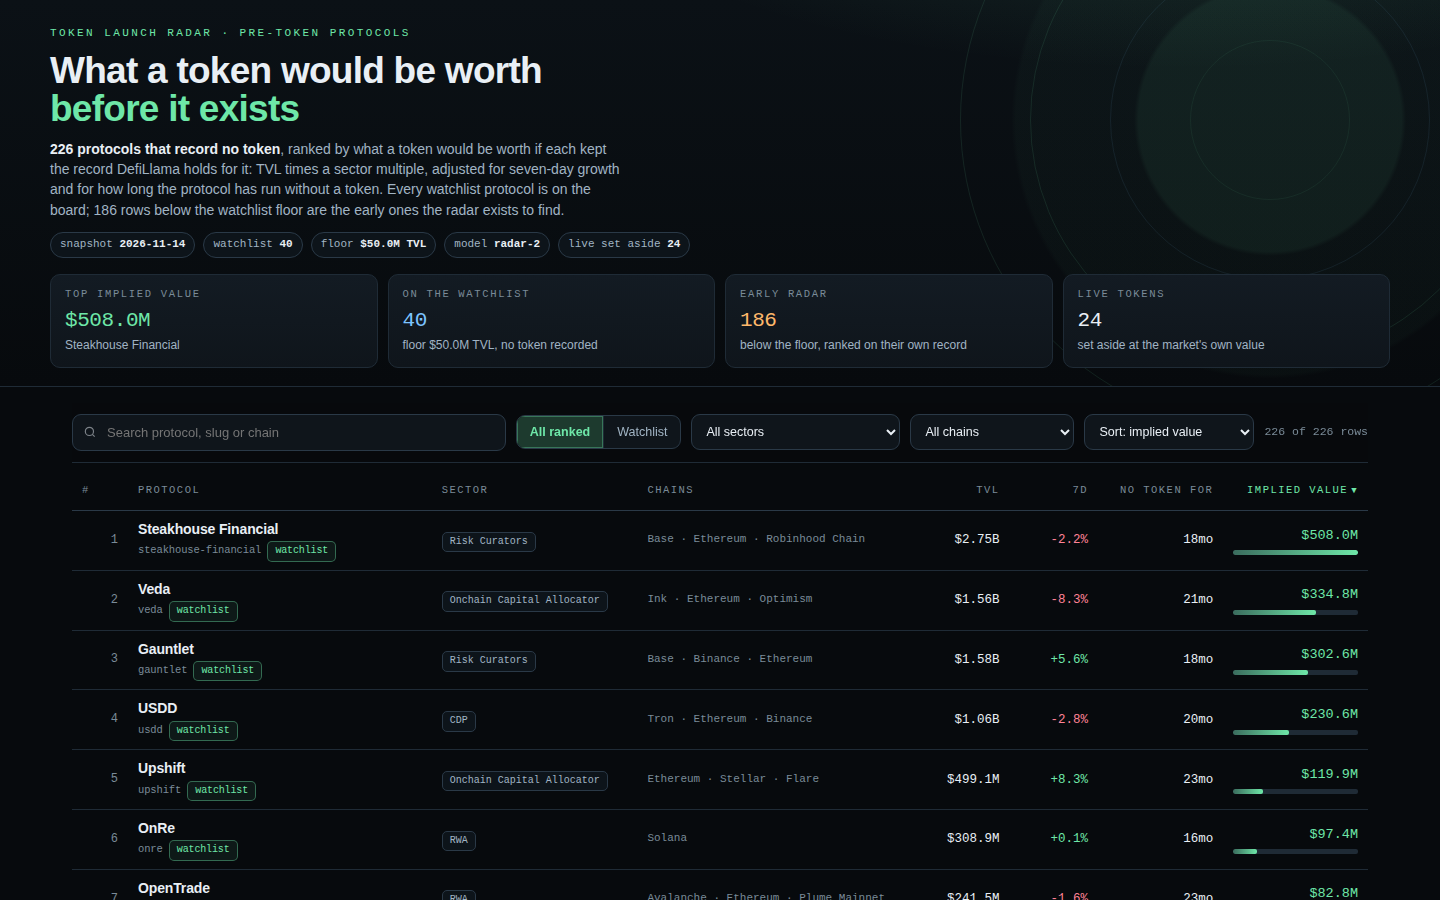
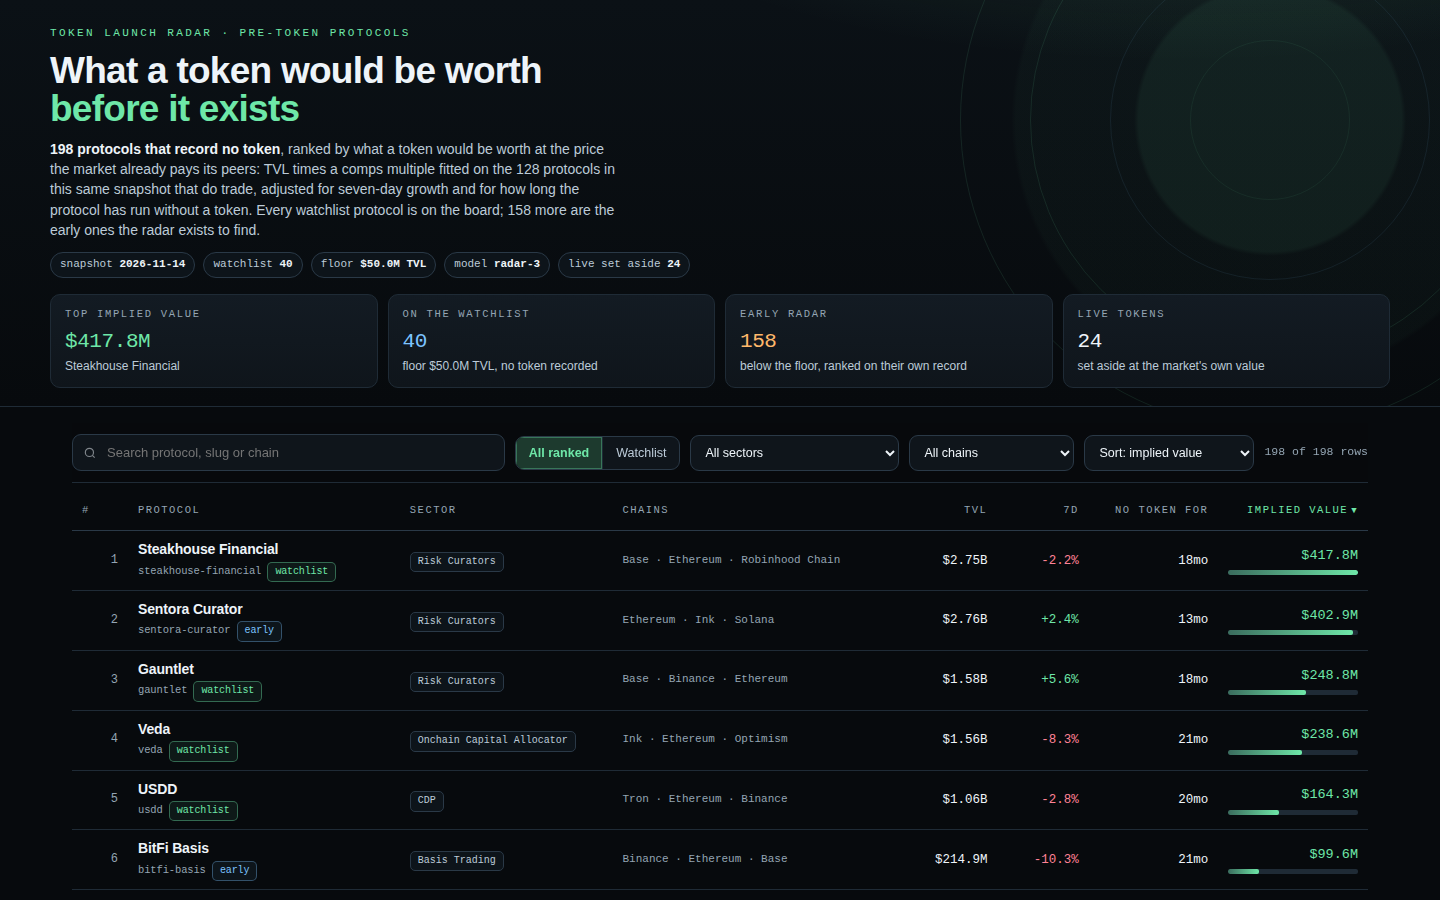
radar-3: comps multiple fitted on the snapshot own tokenized protocols
The sector multiples were hand-picked. They are gone: every protocol that already
trades gives a market-cap-per-TVL reading, the category median prices a pre-token
peer, and the global median stands in when a category has fewer than five readings.

- fitComps/compsMultiple in lib/model.ts, with compsIssue as the fit self-check
- board covers every rankable pre-token protocol (198 rows, watchlist 40/40)
- isRankable now applies the house watchlist rule (wrapped/staked/bridged/CEX)
- dashboard states the fitted multiple, its n and which table it came from

diff --git a/lib/model.ts b/lib/model.ts
@@ -42,8 +42,6 @@ export interface Snapshot {
 
 /** The model's constants, as the dashboard states them and the sandbox may change them. */
 export interface ModelConstants {
-  sector_multiple: Record<string, number>;
-  sector_default: number;
   growth_weight: number;
   growth_floor: number;
   growth_cap: number;
@@ -54,29 +52,6 @@ export interface ModelConstants {
 }
 
 export const MODEL: ModelConstants = {
-  sector_multiple: {
-    DEX: 0.35,
-    Lending: 0.3,
-    CDP: 0.3,
-    'Liquid Staking': 0.22,
-    'Liquid Restaking': 0.22,
-    'Restaked BTC': 0.2,
-    Bridge: 0.18,
-    'Canonical Bridge': 0.18,
-    Yield: 0.25,
-    'Yield Aggregator': 0.28,
-    'Leveraged Farming': 0.26,
-    Perps: 0.4,
-    Derivatives: 0.35,
-    RWA: 0.45,
-    'Prediction Market': 0.3,
-    Insurance: 0.25,
-    Stablecoin: 0.4,
-    Farm: 0.25,
-    Services: 0.2,
-    'Onchain Capital Allocator': 0.3,
-  },
-  sector_default: 0.26,
   growth_weight: 0.5,
   growth_floor: -50,
   growth_cap: 100,
@@ -87,10 +62,17 @@ export const MODEL: ModelConstants = {
 };
 
 /** The model's version label: the dashboard names it and the rules quote it. */
-export const MODEL_VERSION = 'radar-2';
+export const MODEL_VERSION = 'radar-3';
 
-/** How many pre-token protocols below the watchlist floor the early radar carries, by TVL. */
-export const EARLY_ROWS = 260;
+/** A comps multiple: dollars of market cap per dollar of TVL, read off the snapshot's own tokenized protocols. */
+export interface Comps {
+  global: { n: number; median: number };
+  by_category: Record<string, { n: number; median: number }>;
+  min_n: number;
+}
+
+/** A category needs this many tokenized protocols before its own median is trusted over the global one. */
+export const MIN_COMPS = 5;
 
 /** How many live-token protocols the Live token view carries, by market cap. */
 export const LIVE_ROWS = 24;
@@ -119,7 +101,9 @@ export interface BoardRow {
   age_days: number | null;
   implied_value_usd: number;
   model: {
-    sector_multiple: number;
+    comps_multiple: number;
+    comps_n: number;
+    comps_source: 'category' | 'global';
     growth_pct: number;
     growth_multiplier: number;
     maturity_multiplier: number;
@@ -141,7 +125,9 @@ export interface RadarRow {
   listed_at: string | null;
   age_days: number | null;
   implied_value_usd: number;
-  sector_multiple: number;
+  comps_multiple: number;
+  comps_n: number;
+  comps_source: 'category' | 'global';
   growth_pct: number;
   growth_multiplier: number;
   maturity_multiplier: number;
@@ -166,6 +152,7 @@ export interface RadarData {
   floor_usd: number;
   model: ModelConstants;
   model_version: string;
+  comps: Comps;
   watchlist_size: number;
   board_size: number;
   early_size: number;
@@ -198,15 +185,63 @@ export function ageDays(asOf: string, listedAt: string | null): number | null {
   return Math.max(0, Math.floor((a - b) / DAY_MS));
 }
 
-/** The sector multiple a category carries: the snapshot's own category, else the default. */
-export function sectorMultiple(category: string | null, model: ModelConstants): number {
-  if (category === null) return model.sector_default;
-  const hit = model.sector_multiple[category];
-  return typeof hit === 'number' ? hit : model.sector_default;
+/** The middle value of a non-empty list of numbers. */
+function median(values: number[]): number {
+  const s = [...values].sort((a, b) => a - b);
+  const mid = s.length >> 1;
+  return s.length % 2 === 1 ? s[mid]! : (s[mid - 1]! + s[mid]!) / 2;
+}
+
+/**
+ * The comps multiple, fitted on the snapshot itself: every protocol that already trades gives a
+ * market-cap-per-TVL reading, the category median prices a pre-token peer, and the global median
+ * stands in when the category has fewer than `minN` readings. No hand-picked number anywhere.
+ */
+export function fitComps(protocols: SnapshotProtocol[], minN: number = MIN_COMPS): Comps {
+  const all: number[] = [];
+  const byCat = new Map<string, number[]>();
+  for (const p of protocols) {
+    const mcap = p.mcap_usd;
+    if (mcap === null || mcap <= 0 || p.tvl_usd <= 0) continue;
+    const ratio = mcap / p.tvl_usd;
+    all.push(ratio);
+    if (p.category === null) continue;
+    const list = byCat.get(p.category) ?? [];
+    list.push(ratio);
+    byCat.set(p.category, list);
+  }
+  if (all.length === 0) throw new SnapshotError('the snapshot carries no tokenized protocol to fit a comps multiple on');
+  const by_category: Record<string, { n: number; median: number }> = {};
+  for (const cat of [...byCat.keys()].sort()) {
+    const list = byCat.get(cat)!;
+    by_category[cat] = { n: list.length, median: round4(median(list)) };
+  }
+  return { global: { n: all.length, median: round4(median(all)) }, by_category, min_n: minN };
+}
+
+/** The multiple one protocol is priced at, and which table it came from. */
+export function compsMultiple(category: string | null, comps: Comps): { multiple: number; n: number; source: 'category' | 'global' } {
+  if (category !== null) {
+    const hit = comps.by_category[category];
+    if (hit !== undefined && hit.n >= comps.min_n) return { multiple: hit.median, n: hit.n, source: 'category' };
+  }
+  return { multiple: comps.global.median, n: comps.global.n, source: 'global' };
+}
+
+/** Why a fitted comps table is unusable, or null: the self-check the fit runs on itself. */
+export function compsIssue(comps: Comps): string | null {
+  const ok = (x: { n: number; median: number }): boolean => Number.isInteger(x.n) && x.n > 0 && Number.isFinite(x.median) && x.median > 0;
+  if (!ok(comps.global)) return `global comps is ${JSON.stringify(comps.global)}`;
+  const medians = Object.values(comps.by_category).map((c) => c.median);
+  for (const [cat, c] of Object.entries(comps.by_category)) if (!ok(c)) return `comps for ${cat} is ${JSON.stringify(c)}`;
+  if (medians.length > 0 && (comps.global.median < Math.min(...medians) || comps.global.median > Math.max(...medians))) {
+    return `the global median ${comps.global.median} sits outside its own categories' range`;
+  }
+  return null;
 }
 
 /** The three multipliers and the implied value one protocol gets under `model`. */
-export function impliedValue(protocol: SnapshotProtocol, asOf: string, model: ModelConstants): { implied: number; growthPct: number; growthMult: number; maturityMult: number; sector: number; age: number | null } {
+export function impliedValue(protocol: SnapshotProtocol, asOf: string, model: ModelConstants, comps: Comps): { implied: number; growthPct: number; growthMult: number; maturityMult: number; multiple: number; compsN: number; compsSource: 'category' | 'global'; age: number | null } {
   const age = ageDays(asOf, protocol.listed_at);
   const rawGrowth = finite(protocol.change_7d, 0);
   const growthPct = Math.min(model.growth_cap, Math.max(model.growth_floor, rawGrowth));
@@ -215,10 +250,10 @@ export function impliedValue(protocol: SnapshotProtocol, asOf: string, model: Mo
     age === null
       ? model.unknown_age_multiple
       : model.maturity_floor + (Math.min(Math.max(age, 0), model.maturity_days) / model.maturity_days) * model.maturity_range;
-  const sector = sectorMultiple(protocol.category, model);
-  const base = protocol.tvl_usd * sector;
+  const priced = compsMultiple(protocol.category, comps);
+  const base = protocol.tvl_usd * priced.multiple;
   const implied = Math.max(1, Math.round(base * growthMult * maturityMult));
-  return { implied, growthPct, growthMult, maturityMult, sector, age };
+  return { implied, growthPct, growthMult, maturityMult, multiple: priced.multiple, compsN: priced.n, compsSource: priced.source, age };
 }
 
 /** DefiLlama's version-marker rule: a name ending in a release is a pool of another protocol. */
@@ -229,9 +264,22 @@ export function isPreToken(p: SnapshotProtocol): boolean {
   return p.mcap_usd === null && p.gecko_id === null && p.symbol === null;
 }
 
-/** Whether a protocol is one the board may rank: pre-token, not an exchange, not a versioned pool. */
+/** Categories the snapshot's own watchlist rule treats as a wrapped or staked product of a token that trades. */
+const WRAPPED_CATEGORIES = new Set(['Bridge', 'Canonical Bridge', 'Liquid Staking', 'Liquid Restaking', 'Restaked BTC', 'CEX']);
+
+/** The wrapped, staked and exchange-prefixed names the snapshot's own watchlist rule keeps off the list. */
+const WRAPPED_NAME = /\b(wrapped|staked|staking)\b/i;
+const EXCHANGE_PREFIX = /^(Binance|Coinbase|Bybit|Kraken|Bitget|OKX|Bitfinex|Gemini)\b/i;
+
+/**
+ * Whether a protocol is one the board may rank: it records no token, and it is not a wrapped, staked,
+ * bridged or exchange-branded product of a token that already trades (the house watchlist rule, RULES.txt).
+ */
 export function isRankable(p: SnapshotProtocol): boolean {
-  return isPreToken(p) && p.category !== 'CEX' && !VERSIONED.test(p.name);
+  if (!isPreToken(p)) return false;
+  if (p.category !== null && WRAPPED_CATEGORIES.has(p.category)) return false;
+  if (WRAPPED_NAME.test(p.name) || EXCHANGE_PREFIX.test(p.name) || VERSIONED.test(p.name)) return false;
+  return true;
 }
 
 /** The snapshot's protocol by slug. */
@@ -242,7 +290,7 @@ function bySlug(protocols: SnapshotProtocol[]): Map<string, SnapshotProtocol> {
 const round4 = (n: number): number => Math.round(n * 1e4) / 1e4;
 
 /** The protocols the board ranks, strongest first, with ranks 1..n. */
-export function buildBoard(snapshot: Snapshot, model: ModelConstants = MODEL): BoardRow[] {
+export function buildBoard(snapshot: Snapshot, comps: Comps, model: ModelConstants = MODEL): BoardRow[] {
   const index = bySlug(snapshot.protocols);
   const chosen = new Map<string, SnapshotProtocol>();
   // The watchlist is the floor: every slug, even one the snapshot no longer carries.
@@ -250,15 +298,14 @@ export function buildBoard(snapshot: Snapshot, model: ModelConstants = MODEL): B
     const p = index.get(slug);
     if (p !== undefined) chosen.set(slug, p);
   }
-  // The early radar: pre-token protocols below the watchlist floor, by TVL, capped.
+  // The early radar: every rankable pre-token protocol the watchlist does not already name.
   const early = snapshot.protocols
-    .filter((p) => !chosen.has(p.slug) && isRankable(p) && p.tvl_usd < snapshot.floor_usd)
-    .sort((a, b) => b.tvl_usd - a.tvl_usd || (a.slug < b.slug ? -1 : a.slug > b.slug ? 1 : 0))
-    .slice(0, EARLY_ROWS);
+    .filter((p) => !chosen.has(p.slug) && isRankable(p))
+    .sort((a, b) => b.tvl_usd - a.tvl_usd || (a.slug < b.slug ? -1 : a.slug > b.slug ? 1 : 0));
   for (const p of early) chosen.set(p.slug, p);
 
   const scored = [...chosen.values()].map((p) => {
-    const v = impliedValue(p, snapshot.as_of, model);
+    const v = impliedValue(p, snapshot.as_of, model, comps);
     return { p, ...v };
   });
   scored.sort((a, b) => b.implied - a.implied || (a.p.slug < b.p.slug ? -1 : a.p.slug > b.p.slug ? 1 : 0));
@@ -278,7 +325,9 @@ export function buildBoard(snapshot: Snapshot, model: ModelConstants = MODEL): B
     age_days: s.age,
     implied_value_usd: s.implied,
     model: {
-      sector_multiple: s.sector,
+      comps_multiple: s.multiple,
+      comps_n: s.compsN,
+      comps_source: s.compsSource,
       growth_pct: s.growthPct,
       growth_multiplier: round4(s.growthMult),
       maturity_multiplier: round4(s.maturityMult),
@@ -409,7 +458,9 @@ export function radarRow(row: BoardRow, watchlist: string[]): RadarRow {
     listed_at: row.listed_at,
     age_days: row.age_days,
     implied_value_usd: row.implied_value_usd,
-    sector_multiple: row.model.sector_multiple,
+    comps_multiple: row.model.comps_multiple,
+    comps_n: row.model.comps_n,
+    comps_source: row.model.comps_source,
     growth_pct: row.model.growth_pct,
     growth_multiplier: row.model.growth_multiplier,
     maturity_multiplier: row.model.maturity_multiplier,
@@ -419,7 +470,10 @@ export function radarRow(row: BoardRow, watchlist: string[]): RadarRow {
 
 /** Everything the dashboard renders, from the snapshot. */
 export function buildRadar(snapshot: Snapshot, model: ModelConstants = MODEL): { board: BoardRow[]; radar: RadarData } {
-  const board = buildBoard(snapshot, model);
+  const comps = fitComps(snapshot.protocols);
+  const bad = compsIssue(comps);
+  if (bad !== null) throw new SnapshotError(`the comps fit is unusable: ${bad}`);
+  const board = buildBoard(snapshot, comps, model);
   const live = liveRows(snapshot);
   const early = board.filter((r) => !snapshot.watchlist.includes(r.slug)).length;
   const radar: RadarData = {
@@ -428,6 +482,7 @@ export function buildRadar(snapshot: Snapshot, model: ModelConstants = MODEL): {
     floor_usd: snapshot.floor_usd,
     model,
     model_version: MODEL_VERSION,
+    comps,
     watchlist_size: snapshot.watchlist.length,
     board_size: board.length,
     early_size: early,

diff --git a/dashboard/app.js b/dashboard/app.js
@@ -41,10 +41,11 @@
 
   // ---------------------------------------------------------------- header
   $('lede').innerHTML =
-    '<b>' + D.board_size + ' protocols that record no token</b>, ranked by what a token would be worth if ' +
-    'each kept the record DefiLlama holds for it: TVL times a sector multiple, adjusted for seven-day growth ' +
-    'and for how long the protocol has run without a token. Every watchlist protocol is on the board; ' +
-    D.early_size + ' rows below the watchlist floor are the early ones the radar exists to find.';
+    '<b>' + D.board_size + ' protocols that record no token</b>, ranked by what a token would be worth at the ' +
+    'price the market already pays its peers: TVL times a comps multiple fitted on the ' + D.comps.global.n +
+    ' protocols in this same snapshot that do trade, adjusted for seven-day growth and for how long the protocol ' +
+    'has run without a token. Every watchlist protocol is on the board; ' + D.early_size + ' more are the early ' +
+    'ones the radar exists to find.';
 
   $('stamp').innerHTML =
     '<span class="pill">snapshot <b>' + esc(D.as_of) + '</b></span>' +
@@ -187,7 +188,7 @@
     var steps = [];
     // The board's farm_steps live in board.json; data.js carries the plan rebuilt from the same record.
     steps = plan(r);
-    var base = r.tvl_usd * r.sector_multiple;
+    var base = r.tvl_usd * r.comps_multiple;
     $('drawer').innerHTML =
       '<div class="dh"><button class="close" aria-label="Close detail">&times;</button>' +
       '<h2>' + esc(r.name) + '</h2>' +
@@ -200,7 +201,7 @@
       '<div class="db">' +
         '<div class="sec"><h3>Implied value, line by line</h3><div class="math">' +
           line('TVL in the snapshot', exact(r.tvl_usd)) +
-          line('Sector multiple &middot; ' + esc(r.category || 'default'), '\u00d7 ' + num(r.sector_multiple)) +
+          line('Comps multiple &middot; ' + esc(r.category || 'unclassified') + (r.comps_source === 'category' ? ' (' + r.comps_n + ' tokenized peers)' : ' (global, ' + r.comps_n + ' protocols)'), '\u00d7 ' + num(r.comps_multiple, 4)) +
           line('Base, TVL &times; multiple', exact(base)) +
           line('Seven-day growth &middot; ' + (r.change_7d === null ? 'unreported' : (r.change_7d > 0 ? '+' : '') + r.change_7d.toFixed(1) + '%'),
             '\u00d7 ' + num(r.growth_multiplier, 4)) +
@@ -219,7 +220,10 @@
         '</ul></div>' +
         '<div class="sec"><h3>Why it sits here</h3><p class="note">' +
           esc(r.name) + ' ranks ' + r.rank + ' because its ' + usd(r.tvl_usd) + ' of TVL carries a ' +
-          num(r.sector_multiple) + ' sector multiple, its seven-day growth scales the base by ' + num(r.growth_multiplier) +
+          num(r.comps_multiple, 4) + ' comps multiple' + (r.comps_source === 'category'
+            ? ' — the median market-cap-to-TVL of ' + r.comps_n + ' tokenized ' + (r.category || 'peer') + ' protocols in this snapshot'
+            : ' — the global median of ' + r.comps_n + ' tokenized protocols, its own category being too thin to price') +
+          ', its seven-day growth scales the base by ' + num(r.growth_multiplier) +
           ' and its ' + (r.age_days === null ? 'unrecorded age' : r.age_days + ' days') + ' with no token scales it by ' +
           num(r.maturity_multiplier) + '. The same three factors score every protocol on the board; no name is special-cased.' +
         '</p></div>' +
@@ -282,11 +286,17 @@
     drawRows();
   }
 
-  $('fmodel').textContent = 'Model ' + D.model_version + ': implied = TVL x sector multiple x growth x maturity';
+  $('fmodel').textContent = 'Model ' + D.model_version + ': implied = TVL x comps multiple x growth x maturity';
+  var topComps = Object.keys(D.comps.by_category).map(function (k) {
+    return { k: k, c: D.comps.by_category[k] };
+  }).sort(function (a, b) { return b.c.n - a.c.n || (a.k < b.k ? -1 : 1); }).slice(0, 8);
   $('fconst').innerHTML =
-    '<li>sector multiple: ' + Object.keys(D.model.sector_multiple).map(function (k) {
-      return esc(k) + ' ' + D.model.sector_multiple[k];
-    }).join(', ') + ', else ' + D.model.sector_default + '</li>' +
+    '<li>comps multiple, fitted on this snapshot: global median ' + num(D.comps.global.median, 4) + ' from ' +
+      D.comps.global.n + ' tokenized protocols; a category uses its own median once it has ' + D.comps.min_n +
+      ' or more readings</li>' +
+    '<li>largest category samples: ' + topComps.map(function (x) {
+      return esc(x.k) + ' ' + num(x.c.median, 4) + ' (n=' + x.c.n + ')';
+    }).join(', ') + '</li>' +
     '<li>growth: clamp(change_7d, ' + D.model.growth_floor + '%, ' + D.model.growth_cap + '%) x ' + D.model.growth_weight + ' + 1</li>' +
     '<li>maturity: ' + D.model.maturity_floor + ' + min(age_days, ' + D.model.maturity_days + ') / ' + D.model.maturity_days +
       ' x ' + D.model.maturity_range + ', ' + D.model.unknown_age_multiple + ' when the age is unknown</li>' +

diff --git a/main.ts b/main.ts
@@ -83,6 +83,7 @@ writeFileSync(
 
 process.stdout.write(
   `token radar: ${snapshot.protocols.length} protocols, ${snapshot.watchlist.length} on the watchlist, ${board.length} rows scored (${radar.early_size} early, ${radar.live_size} live set aside)\n` +
+    `token radar: comps fitted on ${radar.comps.global.n} tokenized protocols, global median ${radar.comps.global.median} mcap/TVL, ${Object.keys(radar.comps.by_category).length} categories priced\n` +
     `token radar: top row ${board[0]!.name} at $${board[0]!.implied_value_usd}, last row $${board[board.length - 1]!.implied_value_usd}\n` +
     `token radar: wrote board.json, data.js, dashboard/ (${readdirSync(join(here, 'dashboard')).length} files), screenshots/ (${shots.length}) and dossier.json to ${out}\n`,
 );

diff --git a/dashboard/app.css b/dashboard/app.css
@@ -1,7 +1,7 @@
 :root{
   --ink:#070a0d; --panel:#0f151b; --panel2:#131b23; --panel3:#18222c;
   --line:#1f2b36; --line2:#2a3947;
-  --text:#e9eff5; --muted:#a1b4c4; --dim:#7a8b98;
+  --text:#eef4f9; --muted:#bccbd8; --dim:#94a5b3;
   --mint:#6ee7a8; --warn:#ffb86b; --cool:#7cc4ff; --hot:#ff8296;
   --sans:ui-sans-serif,-apple-system,"Segoe UI",Inter,Roboto,Helvetica,Arial,sans-serif;
   --mono:ui-monospace,SFMono-Regular,Menlo,Consolas,"Liberation Mono",monospace;
